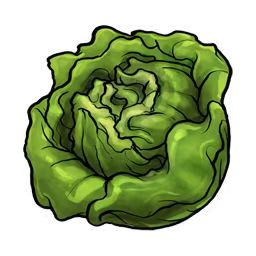
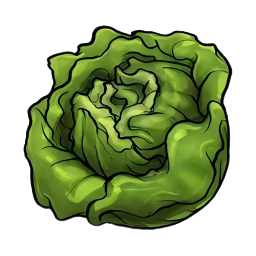
docs: 添加README文档和资源图片
添加项目README文档描述主要问题，并更新lettuce.png图片资源

diff --git a/README.md b/README.md
@@ -1,0 +1,5 @@
+# 主要问题
+## 1.主界面太空
+- 背景
+- 
+## 采青页面
